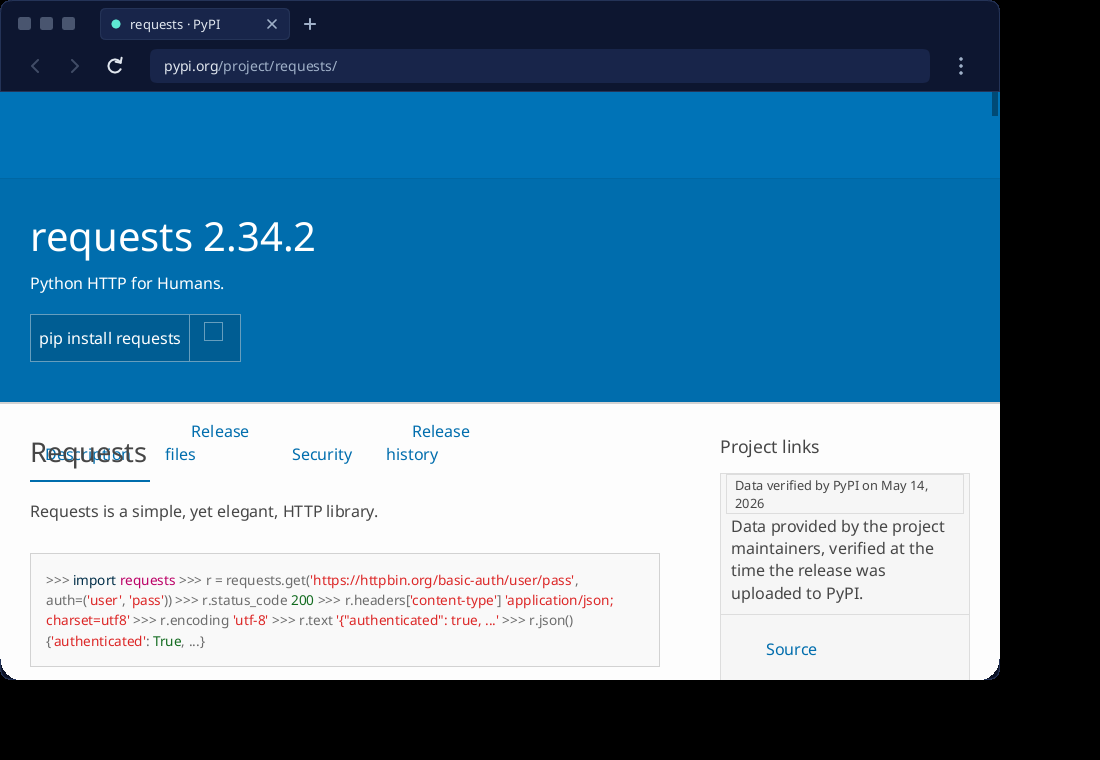
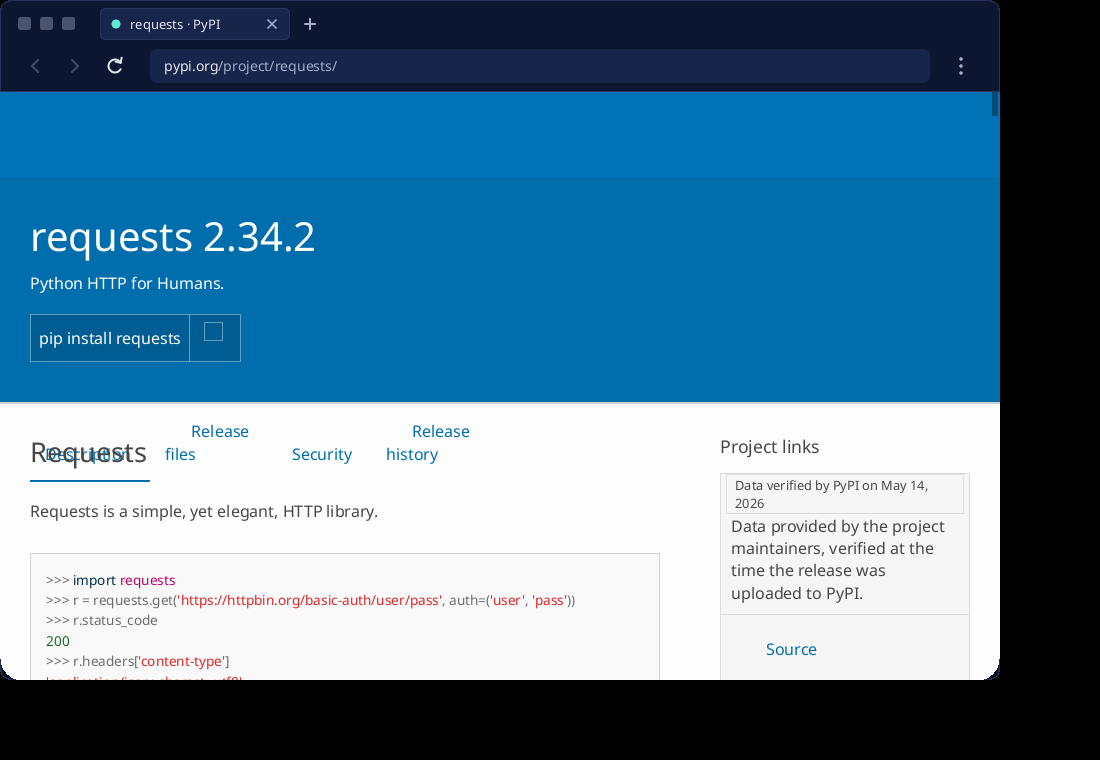
px-shell: UA rules for pre/dl/h4-6, docs, backlog, live-web screenshots

Changed region(s): [[0.0309, 0.7566, 0.5564, 0.8776]]

diff --git a/crates/px-shell/src/page.rs b/crates/px-shell/src/page.rs
@@ -1,8 +1,10 @@
 //! One page through the engine: parse, style, layout, display list, and a
 //! viewport raster at a scroll offset. Also the link boxes, for hit testing.
 //!
-//! Everything here is in-process (see this crate's CLAUDE.md). Local files only:
-//! a stylesheet `href` with a scheme or a host is skipped, never fetched.
+//! Everything here is in-process (see this crate's CLAUDE.md). Layout never
+//! fetches anything: a local page reads relative stylesheets next to its file (a
+//! scheme, host or `..` is skipped); a web page's stylesheets were fetched by
+//! [`crate::web`] through `px-net` beforehand and arrive in [`Resources`].
 
 use std::collections::{HashMap, HashSet};
 use std::panic::{AssertUnwindSafe, catch_unwind};
@@ -21,7 +23,7 @@ const AU_PER_PX: i64 = 60;
 /// size so an ordinary page reads as text and not as Ahem squares.
 const UA_STYLESHEET: &str = "html, body, div, p, section, article, header, footer, \
      nav, aside, main, figure, blockquote, h1, h2, h3, h4, h5, h6, ul, ol, li, \
-     table, form, fieldset, pre, hr { display: block } \
+     table, form, fieldset, pre, hr, dl, dd, dt { display: block } \
      html { font-family: \"Noto Sans\"; font-size: 16px; line-height: 1.4; color: #1b1b1f } \
      body { margin: 8px } \
      p, blockquote, figure { margin: 1em 0 } \
@@ -29,6 +31,11 @@ const UA_STYLESHEET: &str = "html, body, div, p, section, article, header, foote
      h2 { margin: 0.83em 0; font-size: 1.5em } \
      h3 { margin: 1em 0; font-size: 1.17em } \
      ul, ol { margin: 1em 0; padding-left: 40px } \
+     h4 { margin: 1.33em 0 } \
+     h5 { margin: 1.67em 0; font-size: 0.83em } \
+     h6 { margin: 2.33em 0; font-size: 0.67em } \
+     pre { margin: 1em 0; white-space: pre } \
+     dl { margin: 1em 0 } dd { margin-left: 40px } \
      a { color: #0b57d0 } \
      head, style, script, noscript, template, title, meta, link { display: none }";
 

diff --git a/crates/px-shell/src/main.rs b/crates/px-shell/src/main.rs
@@ -3,8 +3,9 @@
 //! `px-shell [options] [PAGE ...]`
 //!
 //! Opens a window with the browser chrome and a real page below it. `PAGE` is a
-//! path to a local HTML file or `about:welcome`, `about:flex`, `about:long`; one
-//! tab each. No network.
+//! path to a local HTML file, `about:welcome`, `about:flex`, `about:long`, or an
+//! `https://` / `http://` address (fetched through `px-net`; stylesheets only,
+//! no script, images, fonts or forms); one tab each.
 //!
 //! ```text
 //! --light            light theme

diff --git a/docs/backlog.md b/docs/backlog.md
@@ -1478,3 +1478,42 @@ follows.
   `set_shape` seam).
 - **Window shadows** are not drawn on either OS (a compositor may add its own;
   an ARGB shadow margin is a layout change).
+
+## Phase 12 / 18 integration: live web in the shell (px-shell + px-net `browse`)
+
+`px-shell https://...` now loads real pages through `SecureFetcher` (see
+`docs/phase-12-integration.md`, "Live web in the shell"). What the first real
+sites showed, none of it fixed here:
+
+- **Blocking load.** The fetch runs on the UI thread; the window does not repaint
+  or respond until the page and its stylesheets arrive (30 s per request cap).
+  Needs the Phase 19 content/network split, or a worker thread first.
+- **No HTTP/2, no compression.** HTTP/1.1 with no `Accept-Encoding`, no `User-Agent`
+  and no `Accept`: sites that require one of them will refuse or serve a reduced
+  page. Deliberate (invariant 4); revisit with ADR 015.
+- **`@import` in stylesheets, `<base href>`, `<style media>`, `<link media>` other
+  than `print`** are not handled: no `@import` fetch, relative URLs always resolve
+  against the document URL.
+- **Stylesheet MIME sniffing.** A no-cors cross-origin stylesheet is opaque, so its
+  `Content-Type` is not visible; the shell only drops a body that starts with `<`.
+- **Inline `style=""` attributes are not checked against CSP** (`style-src-attr`
+  and `'unsafe-inline'`): only `<style>` elements are. Same for `<meta>` CSP.
+- **COEP** from the navigation response is not carried into stylesheet requests
+  (`DocumentFacts::embedder_policy` vs `FetchContext::embedder_policy` differ in
+  type); CSP and Referrer-Policy are.
+- **Cookies and sessions do not persist** between page loads (jar lives for one
+  load). Correct for "no identifiers", but sites that need a session cookie to
+  redirect correctly across two navigations will loop or fail.
+- **Address bar** shows the whole host emphasised; the registrable-domain split
+  needs the PSL in the UI path. IDN hosts are shown as the parser gives them.
+- **Typed text without a scheme** (`example.com`) is still read as a local path.
+- **Font fallback.** `px_layout::text::set_web_fallback(true)` (the shell turns it
+  on) sends unknown/generic families to Noto Sans; the conformance default (Ahem)
+  is unchanged. There is no serif/monospace face, no system fonts, no web fonts:
+  icon fonts draw as missing-glyph boxes.
+- **`<noscript>`** is parsed as raw text (scripting-enabled parser) and hidden by the
+  shell's UA stylesheet.
+- Engine gaps seen on real pages (images, flex/grid page layout, `<pre>` and
+  `<code>` whitespace, form controls, positioned headers, media queries, `calc`)
+  are listed per site in `docs/brand/ui-live-web-*.png` review notes in the branch
+  report.

diff --git a/crates/px-shell/CLAUDE.md b/crates/px-shell/CLAUDE.md
@@ -15,8 +15,21 @@ Full specification: `docs/build-spec.md`. Root working agreement:
   is Phase 19 integration. Nothing here weakens a rule in another crate; no
   sandbox, IPC or broker code is touched or bypassed, and `px-content` still does
   not link `px-display` (`cargo tree -p px-content`).
-- No network. A link whose target is not a local file or an `about:` page does
-  nothing. Local files only, named on argv, typed in the address bar or linked.
+- Network only through `px-net`. `https://` and `http://` addresses (argv, address
+  bar, links on a web page) load via `px_net::browse`, which runs every request
+  through `SecureFetcher` (partitioned state, HSTS, CSP, mixed content, CORS,
+  referrer policy, SRI, redirect rules). This crate never opens a socket and has
+  no TLS code; the symbol audit (`cargo xtask network`) keeps it so. Only the
+  navigation and its `<link rel=stylesheet>` files are fetched. Scripts, images,
+  fonts, frames and forms are never requested and never run. Nothing persists:
+  the cookie jar lives for one page load, there is no cache and no history store.
+  A local page cannot link out to the web. Any failure shows `px-pages`' error
+  page. The loader is synchronous on the UI thread, in-process; the content /
+  network process split and a non-blocking load are Phase 19.
+- The `testing` feature (`px-net/testing`) adds proxy support and an extra trust
+  anchor file for sandboxes that only allow egress through a TLS-terminating
+  proxy (`HTTPS_PROXY`, `PX_TEST_CA_BUNDLE`). It is scanned for in release
+  artifacts and never enabled for a shipping build; verification is never off.
 - No script execution, no images, no forms: whatever the engine does not yet do
   is simply absent from the picture.
 - Page-controlled text (titles) reaches the chrome only through `px_ui::tabs::Tab`,

diff --git a/docs/phase-12-integration.md b/docs/phase-12-integration.md
@@ -130,3 +130,25 @@ every module's `ENFORCEMENT_POINTS` and requires each to be reached through
   `csp::url::Origin`) are still separate; `secure.rs` converts at the CSP
   boundary (`CspUrl::parse` of the serialised URL). A URL the CSP engine cannot
   express is denied. See `docs/backlog.md`.
+
+## Live web in the shell
+
+`px-shell https://host/` is the first consumer of `SecureFetcher` outside its
+tests. The door is `px_net::browse` (`WebSession`, `Loader`): `navigate` is the
+browser-initiated top-level fetch (`Destination::Navigation`, no referrer) and
+`stylesheet` is a `Destination::Style` subresource whose `FetchContext` carries
+the navigation's CSP and Referrer-Policy (`DocumentFacts`). Every step of the
+enforcement order above runs; redirects follow `redirect::Chain`. The shell only
+decodes (BOM, `Content-Type` charset, `<meta>` prescan; UTF-8, UTF-16, Latin-1 /
+windows-1252), finds `<link rel=stylesheet>`, vets inline `<style>` with the
+document's CSP (`Loader::allows_inline_style`), lays out and paints. Scripts,
+images, fonts, frames and forms are never requested. A denial or transport
+failure becomes `px_pages::error_page(address, reason)`.
+
+Process model: in-process on the UI thread. Moving the loader into the network
+process and the layout into the content process is Phase 19.
+
+Testing behind a TLS-terminating egress proxy: `--features testing` adds
+`px_net::testing_proxy` (HTTP CONNECT through `HTTPS_PROXY`, extra anchors from
+the PEM file in `PX_TEST_CA_BUNDLE`, added to the normal store; verification is
+never disabled). `cargo xtask network` scans release artifacts for it.
